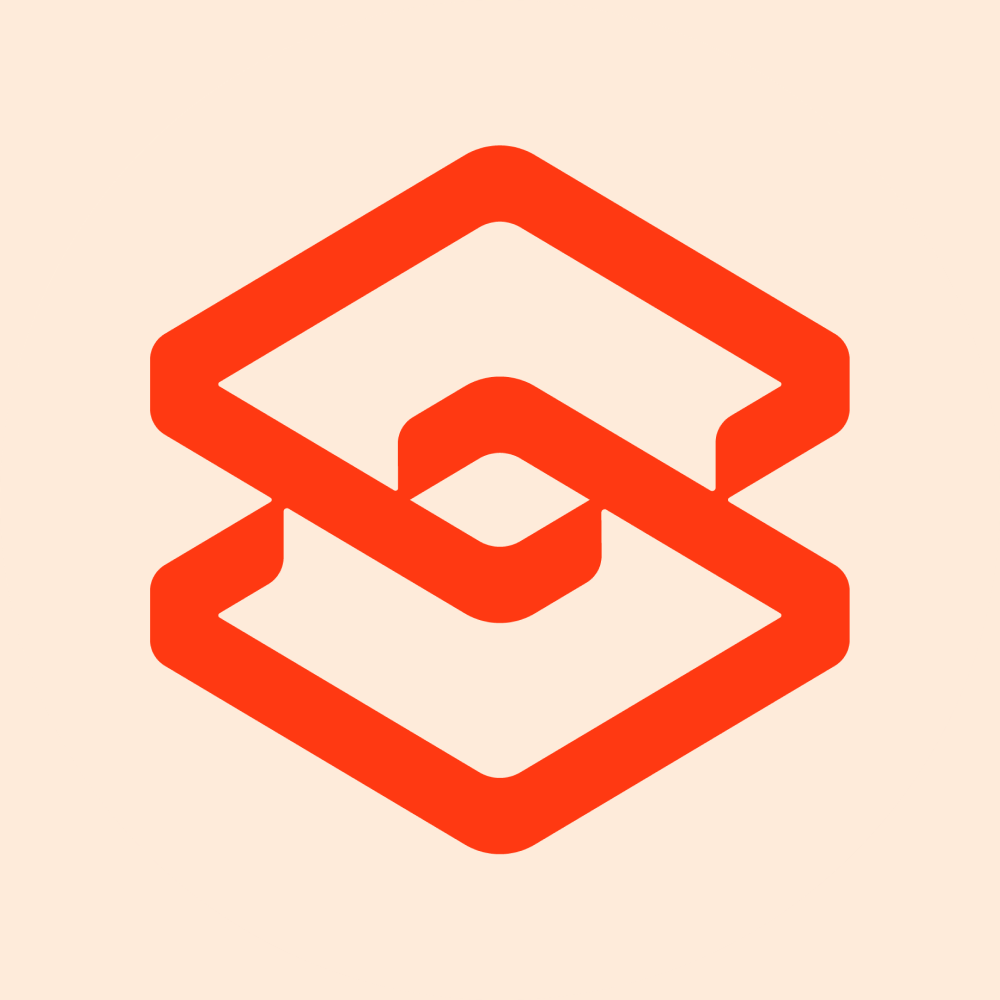
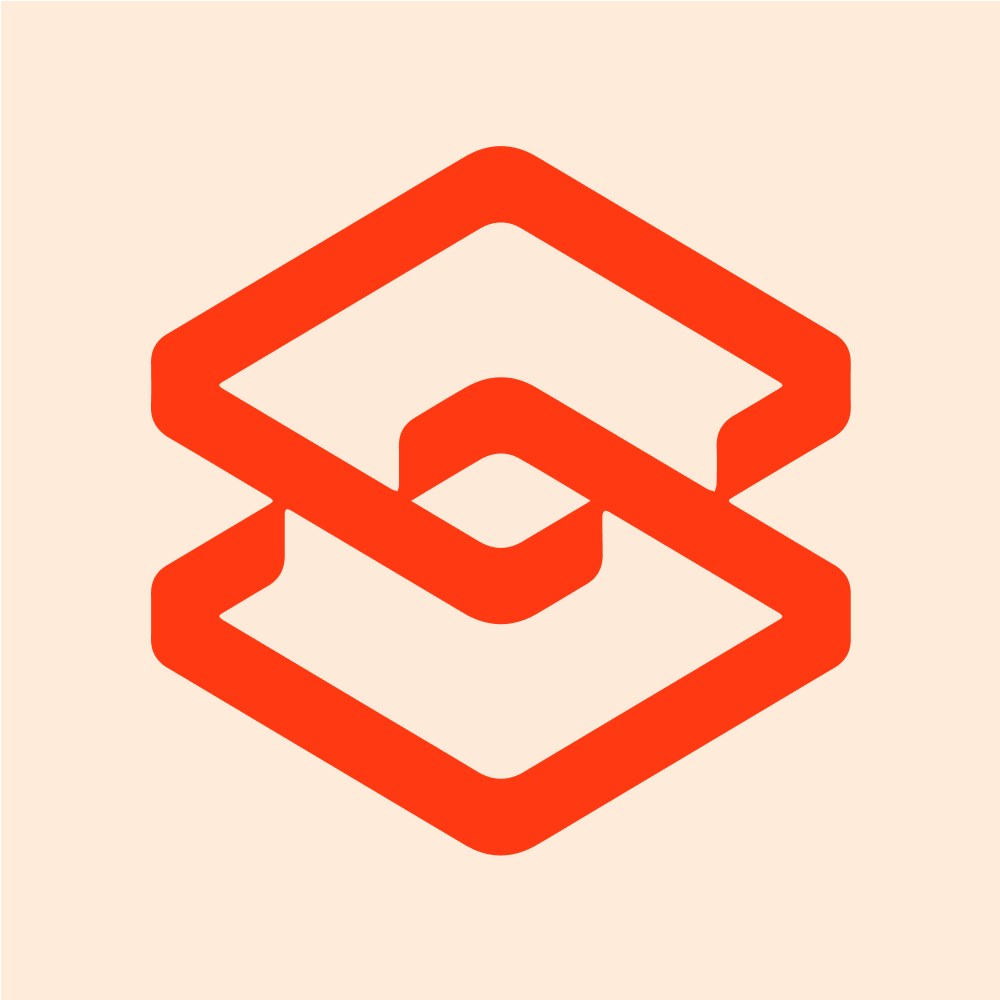
Give dSCRT its own mark, and cut the details row down to what changes a decision
The token icon beside the amount field was hard-coded to SCRT while the symbol
next to it flipped with the tab. Nobody could see it while one logo stood for
both tokens; with two, the icon and the word would have disagreed half the time.
Reading the symbol is what keeps them in step, so `TokenIcon` does that and the
wallet's dSCRT row stops wearing SCRT's colours.

The details panel had grown into a fact sheet. `Taken from` and `Protocol holds`
are true and neither one changes what anybody does next — the fee's basis is
already stated on the page, and the protocol's size belongs on Statistics, which
exists for exactly that. `Withdrawal wait` stays, but only where it bites:
staking has nothing to wait for, and on the way out it is the single figure most
likely to surprise somebody.

diff --git a/app/src/app/page.tsx b/app/src/app/page.tsx
@@ -4,6 +4,7 @@ import { useCallback, useEffect, useMemo, useState } from "react";
 
 import { ChevronDown, Clock, Info, Spinner } from "@/components/Icon";
 import { readable, useToast } from "@/components/Toast";
+import { TokenIcon } from "@/components/TokenIcon";
 import { Unconfigured } from "@/components/Unconfigured";
 import { useWallet } from "@/components/Wallet";
 import {
@@ -228,7 +229,7 @@ export default function StakePage() {
                 onChange={(e) => setAmount(e.target.value.replace(/[^\d.]/g, "").slice(0, 20))}
               />
               <span className="token">
-                <img src="/brand/scrt.png" alt="" width={24} height={24} />
+                <TokenIcon symbol={symbol} size={24} />
                 {symbol}
               </span>
             </div>
@@ -296,27 +297,24 @@ export default function StakePage() {
                   {config ? `${config.params.performance_fee_bps / 100}%` : <Skeleton w={38} />}
                 </span>
               </div>
-              <div className="row">
-                <span className="k">Taken from</span>
-                <span className="v">Staking rewards, never principal</span>
-              </div>
-              <div className="row">
-                <span className="k">Withdrawal wait</span>
-                <span className="v">
-                  {config
-                    ? `${Math.round(config.params.unbonding_period_secs / 86_400)}–${Math.round(
-                        (config.params.unbonding_period_secs + config.params.unbond_window_secs) /
-                          86_400,
-                      )} days`
-                    : <Skeleton w={60} />}
-                </span>
-              </div>
-              <div className="row">
-                <span className="k">Protocol holds</span>
-                <span className="v num">
-                  {state ? `${fromMicro(totalHeld(state), 0)} SCRT` : <Skeleton w={70} />}
-                </span>
-              </div>
+              {/*
+                * Only where it changes a decision. Staking has nothing to wait for, so the
+                * unbonding figure there is trivia; on the way out it is the single thing
+                * most likely to surprise somebody, and it belongs in front of them.
+                */}
+              {mode === "unstake" && (
+                <div className="row">
+                  <span className="k">Withdrawal wait</span>
+                  <span className="v">
+                    {config
+                      ? `${Math.round(config.params.unbonding_period_secs / 86_400)}–${Math.round(
+                          (config.params.unbonding_period_secs + config.params.unbond_window_secs) /
+                            86_400,
+                        )} days`
+                      : <Skeleton w={60} />}
+                  </span>
+                </div>
+              )}
             </div>
           </details>
 
@@ -348,12 +346,6 @@ export default function StakePage() {
         </p>
       </div>
     </div>
-  );
-}
-
-function totalHeld(s: ProtocolState): number {
-  return (
-    Number(s.total_bonded) + Number(s.pending_rewards) + Number(s.liquid_unallocated)
   );
 }
 

diff --git a/app/src/components/Account.tsx b/app/src/components/Account.tsx
@@ -8,6 +8,7 @@ import { fetchScrtBalance, fetchState, fetchTokenBalance } from "@/lib/protocol"
 import { ArrowRight, Check, Copy, LogOut, Settings, Spinner } from "./Icon";
 import { Portal } from "./Portal";
 import { SettingsBody } from "./Settings";
+import { TokenIcon } from "./TokenIcon";
 import { readable, useToast } from "./Toast";
 import { useWallet } from "./Wallet";
 
@@ -178,7 +179,7 @@ export function AccountDrawer({ onClose }: { onClose: () => void }) {
             </p>
 
             <div className="holding">
-              <img src="/brand/scrt.png" alt="" width={30} height={30} />
+              <TokenIcon symbol="SCRT" size={30} />
               <span className="holding-name">
                 <strong>SCRT</strong>
                 <span className="hint">Liquid, in your wallet</span>
@@ -191,7 +192,7 @@ export function AccountDrawer({ onClose }: { onClose: () => void }) {
             </div>
 
             <div className="holding">
-              <img src="/brand/scrt.png" alt="" width={30} height={30} />
+              <TokenIcon symbol="dSCRT" size={30} />
               <span className="holding-name">
                 <strong>dSCRT</strong>
                 <span className="hint">Staked, earning</span>

diff --git a/app/src/components/TokenIcon.tsx b/app/src/components/TokenIcon.tsx
@@ -1,0 +1,23 @@
+/**
+ * The mark for one of the two tokens.
+ *
+ * Small enough to be a one-liner and still worth its own file: the amount field's symbol
+ * flips with the tab, so an icon hard-coded beside it is wrong half the time. Reading the
+ * symbol is the only way the two stay in step.
+ *
+ * Both marks are opaque squares rather than transparent glyphs, so they are clipped to a
+ * circle at the point of use — see `.token img`, `.holding img` — which is also what keeps
+ * a coin looking like a coin next to a wallet balance.
+ */
+
+const MARKS: Record<string, string> = {
+  SCRT: "/brand/scrt.png",
+  dSCRT: "/brand/dSCRT.png",
+};
+
+export function TokenIcon({ symbol, size }: { symbol: string; size: number }) {
+  const src = MARKS[symbol] ?? MARKS.SCRT;
+  // Decorative: the symbol is always spelled out beside it, so alt text would be read
+  // twice by a screen reader and add nothing the second time.
+  return <img src={src} alt="" width={size} height={size} />;
+}
